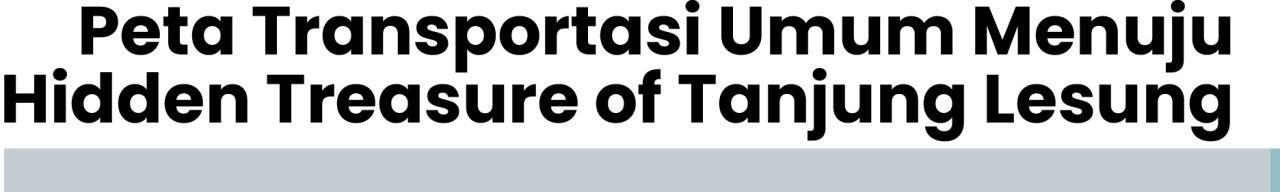
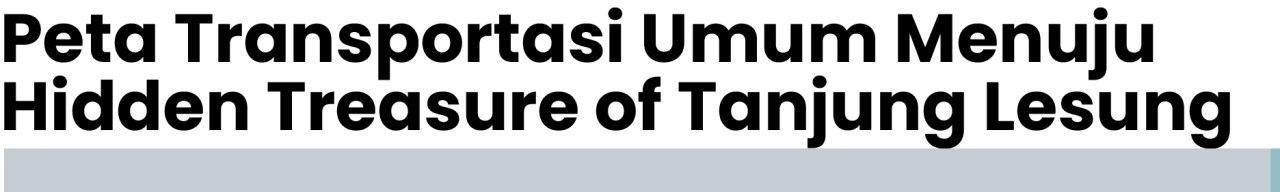
update title jalur transport

Changed region(s): [[0.0, 0.0, 0.9688, 0.7812]]

diff --git a/src/routes/transport/route/index.svelte b/src/routes/transport/route/index.svelte
@@ -3,7 +3,7 @@
 </header>
 <br>
 <div class="px-4 sm:px-8 md:px-16 flex flex-col">
-    <div class="flex flex-row-reverse mb-8">
+    <div class="flex flex-row mb-8">
         <img src="trans_route_title.jpg" alt="Peta Transportasi Umum Menuju CEC" class="w-full sm:w-1/2">
     </div>
     {#if innerWidth >640}
